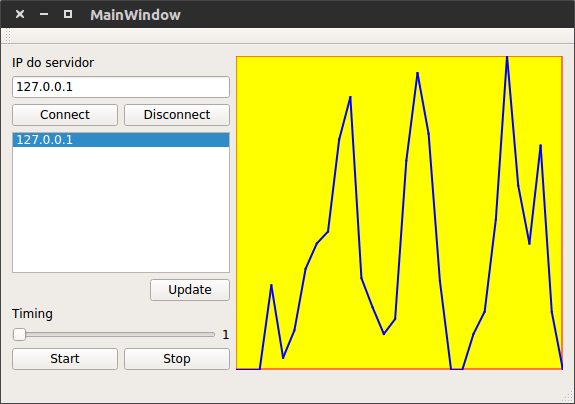
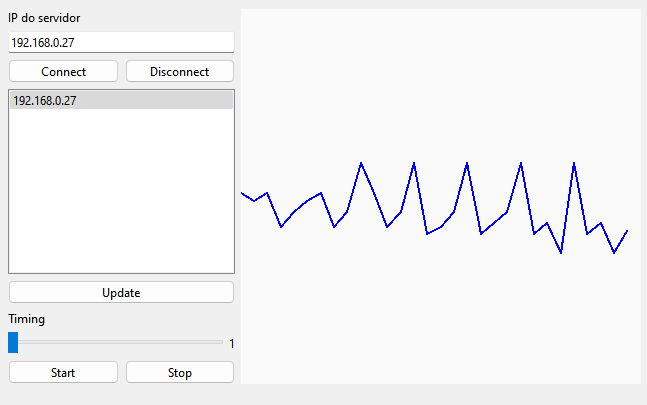
feat: finishing consumer

diff --git a/QtTcpClientConsumer/mainwindow.cpp b/QtTcpClientConsumer/mainwindow.cpp
@@ -2,6 +2,8 @@
 #include "ui_mainwindow.h"
 #include <QDateTime>
 
+#include "monitor.h"
+
 MainWindow::MainWindow(QWidget *parent) :
     QMainWindow(parent),
     ui(new Ui::MainWindow)
@@ -55,12 +57,32 @@ MainWindow::MainWindow(QWidget *parent) :
         SLOT(deactivateTimer())
     );
 
+    // Start and stop monitor
+    connect(
+        this,
+        SIGNAL(timerActivated(int)),
+        ui->monitor,
+        SLOT(turnOnMonitor(int)));
+
+    connect(
+        this,
+        SIGNAL(timerDeactivated()),
+        ui->monitor,
+        SLOT(turnOffMonitor()));
+
     // Set timing value
     connect(
         ui->horizontalSliderTiming,
         SIGNAL(valueChanged(int)),
         ui->labelTimingValue,
         SLOT(setNum(int)));
+
+    // Trigger paint
+    connect(
+        this,
+        SIGNAL(entryChanged(Entry*)),
+        ui->monitor,
+        SLOT(setEntry(Entry*)));
 }
 
 
@@ -91,13 +113,15 @@ void MainWindow::tcpDisconnect()
 void MainWindow::activateTimer() {
     QString timing = ui->labelTimingValue->text();
     timerId = startTimer(timing.toInt() * 1000);
+    emit timerActivated(timing.toInt() * 1000);
 }
 
 void MainWindow::deactivateTimer() {
     killTimer(timerId);
+    emit timerDeactivated();
 }
 
-void MainWindow::getProducerData(){
+void MainWindow::timerEvent(QTimerEvent *event) {
     QString str;
     QStringList list;
     qint64 thetime;
@@ -110,25 +134,30 @@ void MainWindow::getProducerData(){
             socket->write(request.toStdString().c_str());
             socket->waitForBytesWritten();
             socket->waitForReadyRead();
-            qDebug() << socket->bytesAvailable();
+            // qDebug() << socket->bytesAvailable();
 
             while(socket->bytesAvailable()){
                 str = socket->readLine().replace("\n","").replace("\r","");
                 list = str.split(" ");
                 if(list.size() == 2){
+                    Entry data;
                     bool ok;
+
+                    // Processing received data
                     str = list.at(0);
                     thetime = str.toLongLong(&ok);
                     str = list.at(1);
-                    qDebug() << thetime << ": " << str;
+
+                    data.measurement = str;
+                    data.time = thetime;
+
+                    // qDebug() << thetime << ": " << str;
+
+                    emit entryChanged(&data);
                 }
             }
         }
     }
-}
-
-void MainWindow::timerEvent(QTimerEvent *event) {
-    getProducerData();
 }
 
 void MainWindow::listProducers()

diff --git a/QtTcpClientConsumer/monitor.cpp b/QtTcpClientConsumer/monitor.cpp
@@ -6,11 +6,15 @@
 Monitor::Monitor(QWidget *parent)
     : QWidget{parent}
 {
-
+    // First entry is zero
+    entries.push_back({.time=0,.measurement=0});
 }
 
 void Monitor::paintEvent(QPaintEvent *event)
 {
+    qlonglong t1, t2;
+    int m1, m2, i;
+
     QPainter painter(this);
     QBrush brush;
     QPen pen;
@@ -22,4 +26,53 @@ void Monitor::paintEvent(QPaintEvent *event)
     painter.setBrush(brush);
     painter.setPen(pen);
     painter.drawRect(0,0,width(),height());
+
+    // Set lines color
+    pen.setColor(QColor(0,0,255));
+    pen.setWidth(2);
+    painter.setPen(pen);
+
+    std::function<int(Entry)> f_measure = [&](Entry it) {
+        return height() - it.measurement.toInt()*height()/100;
+    };
+
+    // Plot Time versus Measurement
+    i = 0;
+    t1 = 0;
+    m1 = f_measure(entries.at(0));
+
+    for (auto it : entries) {
+        t2 = width()*i/30;
+        m2 = f_measure(it);
+        painter.drawLine(t1,m1,t2,m2);
+        t1 = t2;
+        m1 = m2;
+        i += 1;
+    }
+
 }
+
+void Monitor::timerEvent(QTimerEvent *event)
+{
+    repaint();
+}
+
+void Monitor::setEntry(Entry* entry)
+{
+    if (entries.size() >= 30) {
+        // Delete first element
+        entries.erase(entries.begin());
+    }
+    entries.push_back(*entry);
+}
+
+void Monitor::turnOnMonitor(int timing)
+{
+    timerId = startTimer(timing);
+}
+
+void Monitor::turnOffMonitor()
+{
+    killTimer(timerId);
+}
+

diff --git a/QtTcpClientConsumer/mainwindow.h b/QtTcpClientConsumer/mainwindow.h
@@ -10,6 +10,11 @@ namespace Ui {
 class MainWindow;
 }
 
+struct Entry {
+    qlonglong time;
+    QString measurement;
+};
+
 class MainWindow : public QMainWindow
 {
     Q_OBJECT
@@ -22,7 +27,6 @@ public:
 public slots:
     void listProducers();
     void setProducer(QListWidgetItem *item);
-    void getProducerData();
     void tcpConnect();
     void tcpDisconnect();
     void activateTimer();
@@ -30,6 +34,9 @@ public slots:
 
 signals:
     void hostConnected(bool);
+    void entryChanged(Entry*);
+    void timerActivated(int);
+    void timerDeactivated();
 
 private:
     Ui::MainWindow *ui;

diff --git a/QtTcpClientConsumer/monitor.h b/QtTcpClientConsumer/monitor.h
@@ -1,7 +1,9 @@
 #ifndef MONITOR_H
 #define MONITOR_H
 
+#include "mainwindow.h"
 #include <QWidget>
+#include <vector>
 
 class Monitor : public QWidget
 {
@@ -10,6 +12,16 @@ class Monitor : public QWidget
 public:
     explicit Monitor(QWidget *parent = nullptr);
     void paintEvent(QPaintEvent *event);
+    void timerEvent(QTimerEvent *event);
+
+public slots:
+    void setEntry(Entry* entry);
+    void turnOnMonitor(int timing);
+    void turnOffMonitor();
+
+private:
+    std::vector<Entry> entries;
+    int timerId;
 
 signals:
 

diff --git a/README.md b/README.md
@@ -97,9 +97,6 @@ sequências de literais, separa-as conforme a quantidade de espaços
 presentes e armazena os dados associados em uma estrutura local criada
 para esse fim.
 
-Em se tratando de um projeto meramente acadêmico, pouco controle de
-erro é realizado nessa versão inicial.
-
 Quando o servidor é executado, uma mensagem é exibida na aba
 **Application Output** do QtCreator mostrando o IP local do servidor,
 como ilustram as linhas a seguir:
@@ -142,7 +139,7 @@ recuperar os endereços das máquinas que produziram dados e traçar um
 gráfico data-hora x valor de uma sequência de dados fornecida pelo
 servidor.
 
-O usuário do módulo consumidor de dados, o usuário deverá ter à sua
+O usuário do módulo consumidor de dados deverá ter à sua
 disposição as seguintes funcionalidades:
 
 - Indicar o endereço IP do servidor de dados ao qual o cliente deverá
